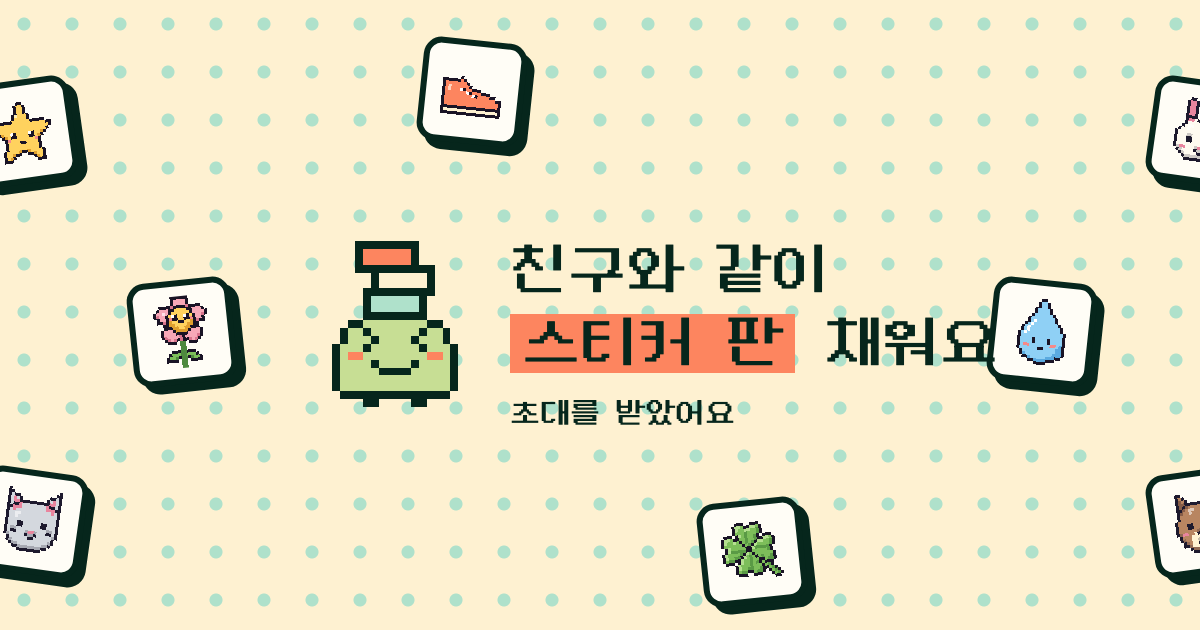
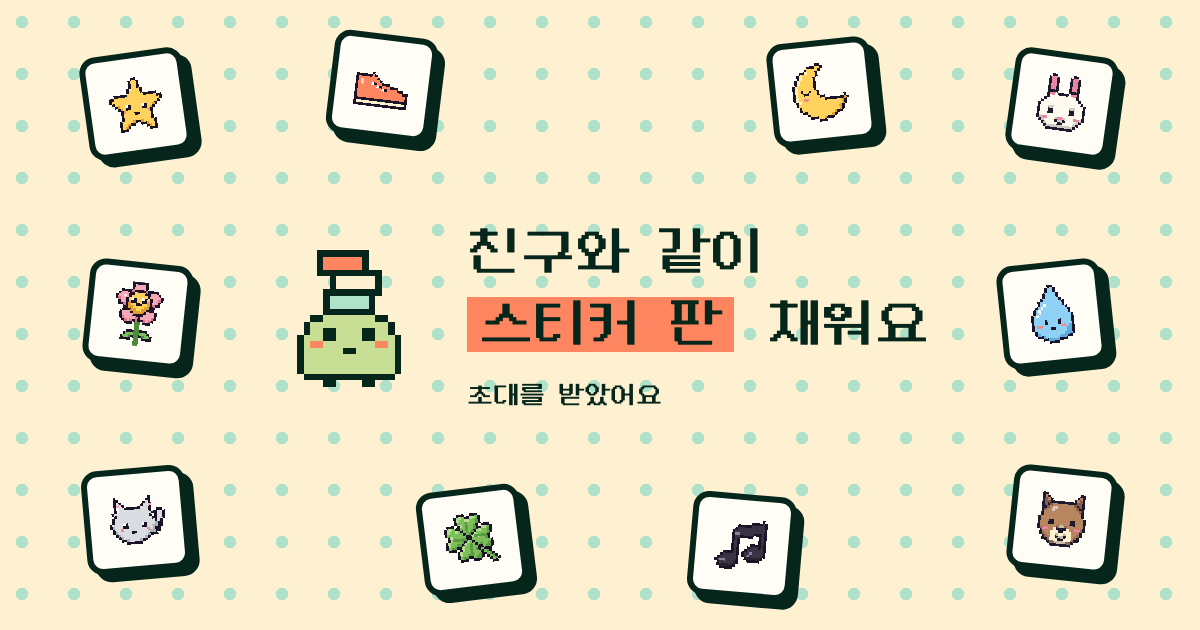
chagok: rebuild the invite preview image and clarify how to open the invite
- Add deploy/build-chagok-og.mjs to render og.png with headless Chrome;
  it checks that sticker tiles stay 40px clear of the text and mascot and
  60px from the side edges (KakaoTalk crops the sides) before saving.
- Rebuild og.png so the water drop tile no longer touches the title.
- Invite meta description now says to open the link and tap the open button,
  since KakaoTalk shows the web page first.
- Add an update hint under the download area for people on an old app.

diff --git a/chagok/invite/index.html b/chagok/invite/index.html
@@ -11,11 +11,11 @@
   목표 이름과 함께하는 사람은 assets/invite/invite.js 가 운영 서버 초대 미리보기(preview_invite)에서 받아 넣는다.
 -->
 <meta name="robots" content="noindex">
-<meta name="description" content="같이 스티커 판을 채워요. 링크를 누르면 앱에서 열려요.">
+<meta name="description" content="같이 스티커 판을 채워요. 링크를 열고 [차곡차곡에서 열기]를 눌러 주세요.">
 <meta property="og:type" content="website">
 <meta property="og:site_name" content="차곡차곡">
 <meta property="og:title" content="친구가 차곡차곡에 초대했어요">
-<meta property="og:description" content="같이 스티커 판을 채워요. 링크를 누르면 앱에서 열려요.">
+<meta property="og:description" content="같이 스티커 판을 채워요. 링크를 열고 [차곡차곡에서 열기]를 눌러 주세요.">
 <meta property="og:image" content="https://chagok.novum-lab.com/assets/invite/og.png">
 <meta property="og:image:width" content="1200">
 <meta property="og:image:height" content="630">
@@ -49,6 +49,8 @@
       <a id="store-ko" href="https://apps.apple.com/kr/app/id6824725721"><img class="badge" src="/assets/img/app-store-badge-ko.svg" alt="App Store에서 다운로드" width="143" height="44"></a>
       <!-- 영어 화면: 영어 배지 파일이 없어 글자 버튼으로 스토어를 연다. 나라 없는 주소라 각 나라 스토어로 열린다 -->
       <a class="px-button secondary" id="store-en" href="https://apps.apple.com/app/id6824725721" hidden>Get Chagok on the App Store</a>
+      <!-- 초대 링크를 열지 못하는 옛 앱을 쓰는 사람에게 업데이트를 안내한다 -->
+      <p class="caption center" data-en="If the app doesn't open or says the page can't be found, update Chagok from the App Store.">앱이 열리지 않거나 페이지를 찾을 수 없다고 나오면 App Store에서 차곡차곡을 업데이트해 주세요.</p>
     </div>
   </section>
 

diff --git a/docs/chagok.md b/docs/chagok.md
@@ -33,6 +33,7 @@
 - 페이지가 운영 서버 초대 미리보기(`preview_invite`, 로그인 없이)를 불러 목표 이름, 초대한 사람, 함께하는 사람 스티커를 넣는다. 공개 키(anon)는 앱에 들어 있는 것과 같다. 운영 서버 주소나 키가 바뀌면 `invite.js` 맨 위 두 줄을 바꾼다. 서버에 닿지 못하면 목표 이름 없이 기본 안내가 남는다.
 - 서버가 돌려주는 `closed`, `full`, `rate_limited`(없는 코드를 한 곳에서 1시간 30번, 앱 저장소 `supabase/migrations/20261106000001~3`)마다 차곡이 카드를 보여 준다.
 - 차곡이 그림과 스티커는 앱 저장소에서 만든다: `node deploy/build-chagok-invite-assets.mjs <chagok-app 경로>`.
+- 초대 링크 미리보기 그림(`assets/invite/og.png`, 1200×630)은 `node deploy/build-chagok-og.mjs`로 만든다(맥 Chrome 헤드리스). 카카오톡이 양옆을 잘라서 스티커 타일은 글과 차곡이에서 40px, 양옆 끝에서 60px 넘게 떨어뜨리고, 스크립트가 이 간격을 재서 어기면 멈춘다.
 - **서버(Caddy) 설정은 끝났다(2026-11-06, 운영 서버):** `/invite/*`를 `/invite/index.html`로 보내고, `/.well-known/apple-app-site-association`을 `Content-Type: application/json`으로 낸다. 이 설정이 빠지면 `/invite/<코드>`가 404다.
 
 ## 개정하는 방법
